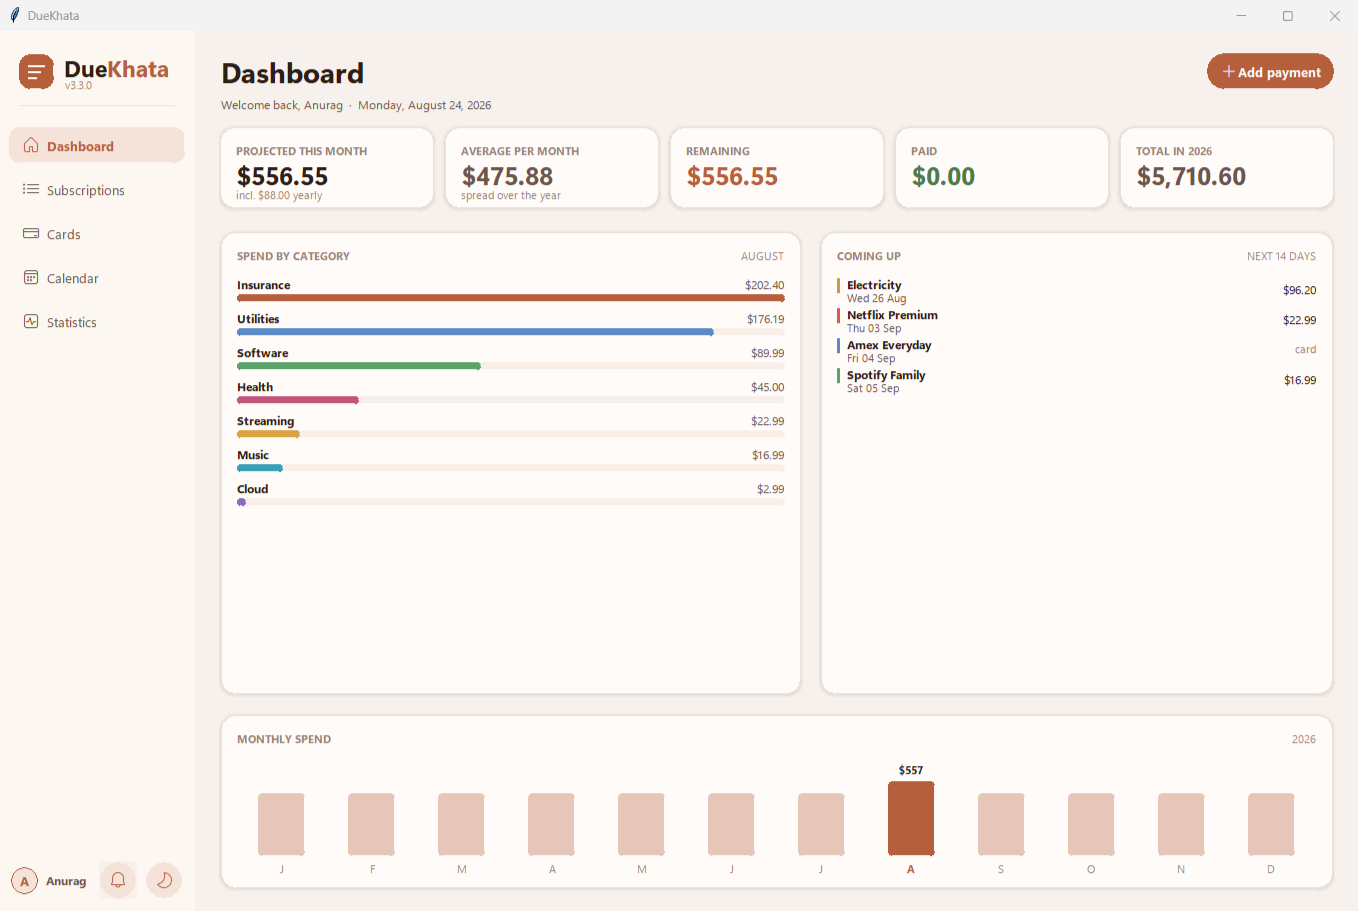
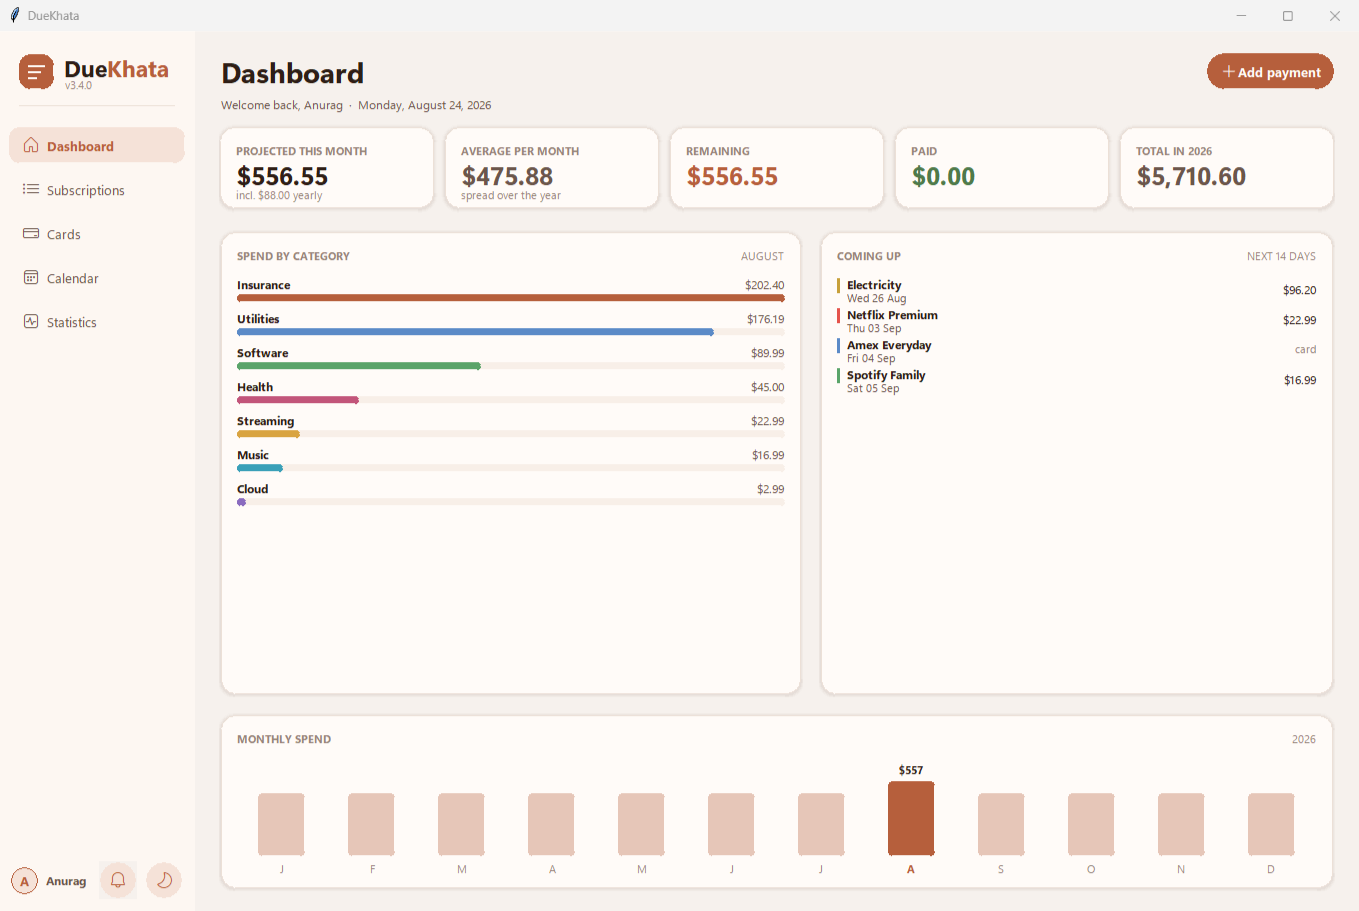
Release v3.4.0
Bump the version, record payment sources and reminders in the changelog,
and refresh both README screenshots, which still showed v3.3.0 without the
payment source columns or the reminders bell.

The screenshots are captured from the window itself and trimmed to its
own pixels, so nothing behind the window can appear in them.

diff --git a/main.py b/main.py
@@ -85,7 +85,7 @@ from expense_tracker import (
 )
 
 
-APP_VERSION = "3.3.0"
+APP_VERSION = "3.4.0"
 APP_NAME = "DueKhata"
 APP_DATA_FOLDER = "DueKhata"
 

diff --git a/CHANGELOG.md b/CHANGELOG.md
@@ -3,6 +3,33 @@
 What changed in each version. Newest first. Every version can be downloaded from the
 [releases page](https://github.com/paudel01anurag/duekhata-subscription-tracker/releases).
 
+## v3.4.0 — 24 August 2026
+
+Subscriptions can say where they are charged, and DueKhata can tell you before a payment lands.
+
+**Added**
+
+- **Payment sources.** A subscription can now record which card or bank account it is charged to.
+  Bank accounts live alongside cards, and each payment source shows how many subscriptions it carries
+  and what they cost per month — so when a card is replaced, the list of what to update is on screen.
+- **Reminders.** DueKhata can raise a Windows notification a few days before a payment is due, naming
+  the amount and the card it will be charged to. Off by default; the bell in the sidebar switches it
+  on and chooses how much warning and at what time.
+
+  It works without the application running: Windows Task Scheduler starts a check once a day, which
+  raises anything due and exits. Nothing runs in the background, and nothing reaches the network.
+
+**Fixed**
+
+- The "Charged to" dropdown was invisible, because it shared a grid cell with the "Mark as paid this
+  month" checkbox and was drawn underneath it.
+- Record identifiers were built from the clock alone, so two records created in the same instant
+  could share one. Since payments are matched to their subscription by identifier, that meant marking
+  one paid could mark another, and deleting one could delete another. Found by continuous integration
+  on its first run, having never once reproduced locally.
+- Reminders lost the dollar amount, announcing "Charging .99" instead of "Charging $22.99", because
+  PowerShell expanded `$22` as a variable on the way to the notification.
+
 ## v3.3.0 — 21 August 2026
 
 Credit cards get their own place, the dashboard stops making a yearly renewal look like a mistake,
